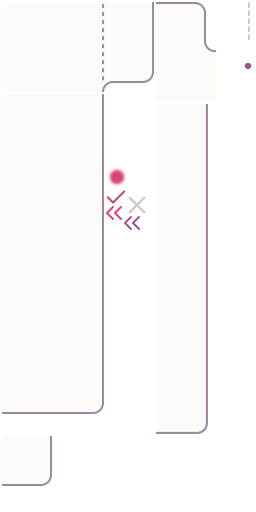
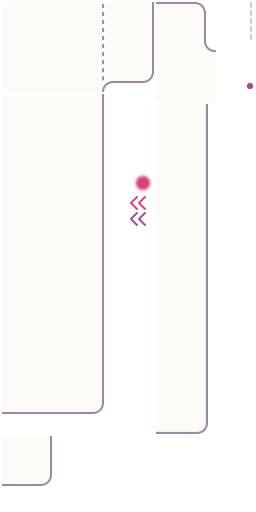
update check and x on solution buttons

Changed region(s): [[0.4062, 0.3125, 0.5938, 0.4688], [0.9688, 0.0, 1.0, 0.0938], [0.9375, 0.125, 1.0, 0.1875]]

diff --git a/PttrnFlow/PttrnFlow/Layers/SequenceControlsLayer.m b/PttrnFlow/PttrnFlow/Layers/SequenceControlsLayer.m
@@ -154,7 +154,7 @@ static NSInteger const kRowLength = 8;
     SolutionButton *button = self.solutionButtons[index];
     [button animateCorrectHit:correct];
     
-    CGFloat  offset = -8.0f;
+    CGFloat  offset = 6.0f;
     NSString *flagName = @"x.png";
     if (correct) {
         offset *= -1.0f;
@@ -165,9 +165,10 @@ static NSInteger const kRowLength = 8;
     CCSprite *flag = [CCSprite spriteWithSpriteFrameName:flagName];
     [self.solutionFlags addObject:flag];
     [self.uiBatchNode addChild:flag];
+    flag.color = [ColorUtils defaultPurple];
     flag.position = ccp(button.position.x, button.contentSize.height / 2);
     flag.opacity = 0.0f;
-    CCMoveTo *flagMoveTo = [CCMoveTo actionWithDuration:1.0f position:ccp(flag.position.x, (button.contentSize.height / 2) - offset)];
+    CCMoveTo *flagMoveTo = [CCMoveTo actionWithDuration:1.0f position:ccp(flag.position.x, (button.contentSize.height / 2) + offset)];
     CCEaseElasticOut *flagEase = [CCEaseElasticOut actionWithAction:flagMoveTo];
     [flag runAction:flagEase];
     CCFadeIn *flagFadeIn = [CCFadeIn actionWithDuration:0.5f];
